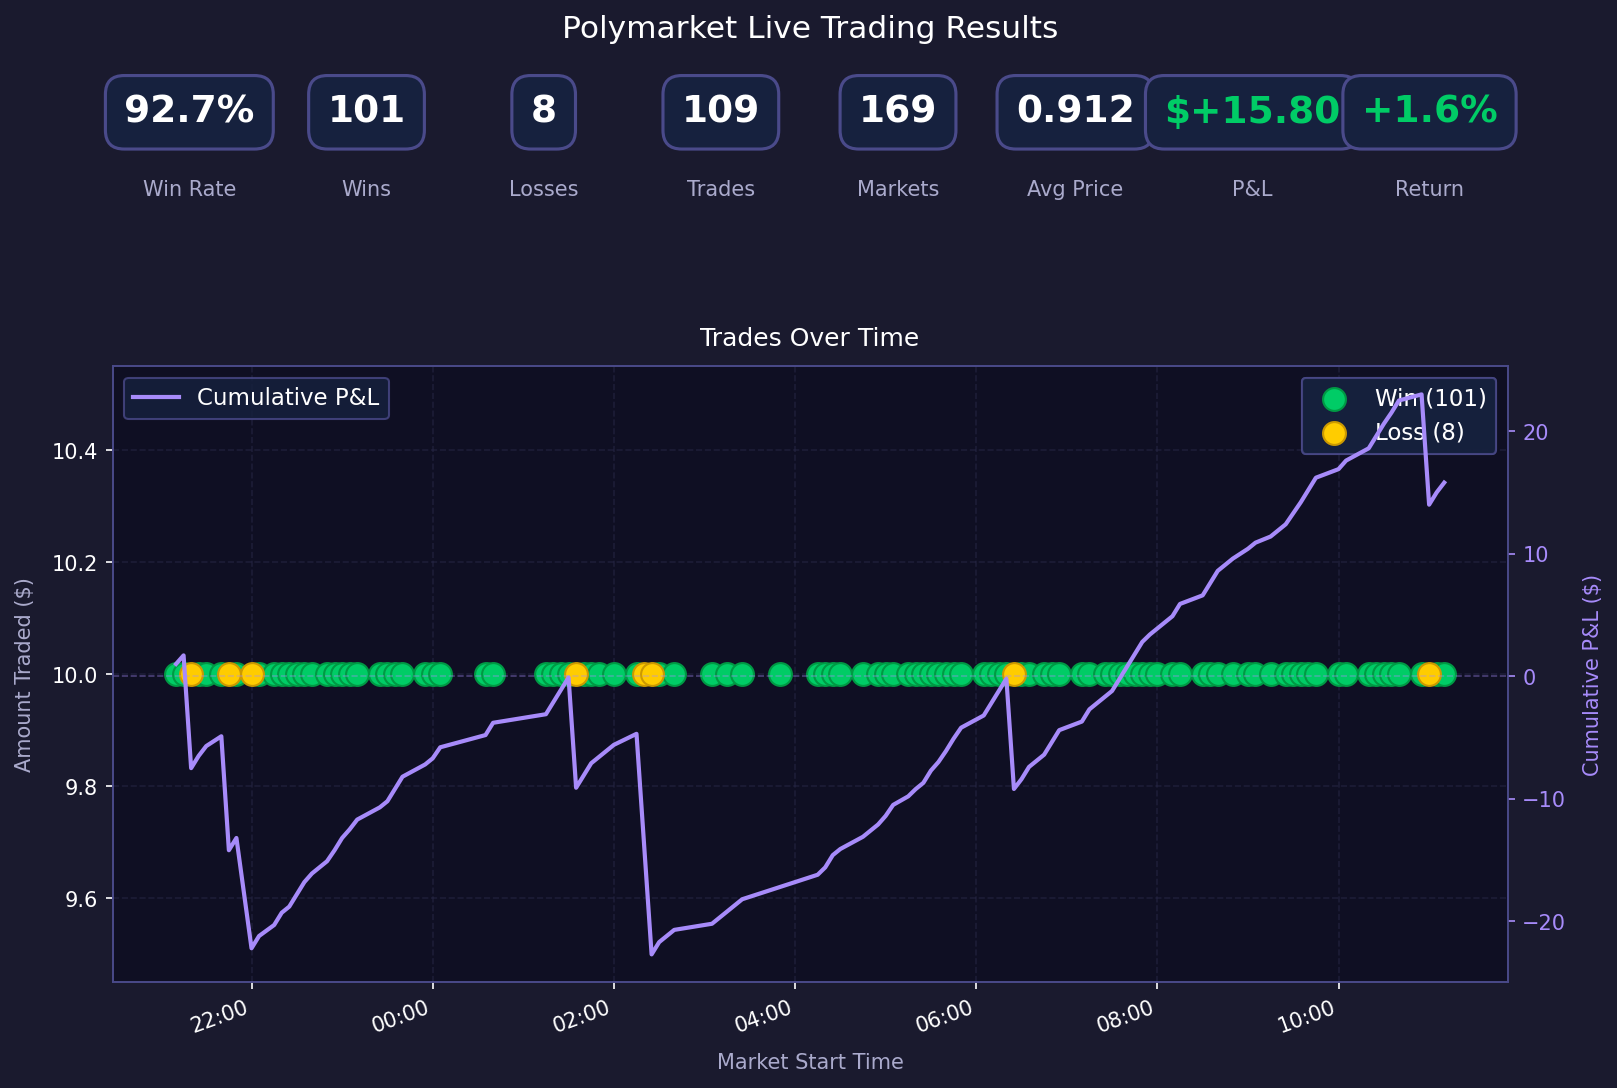
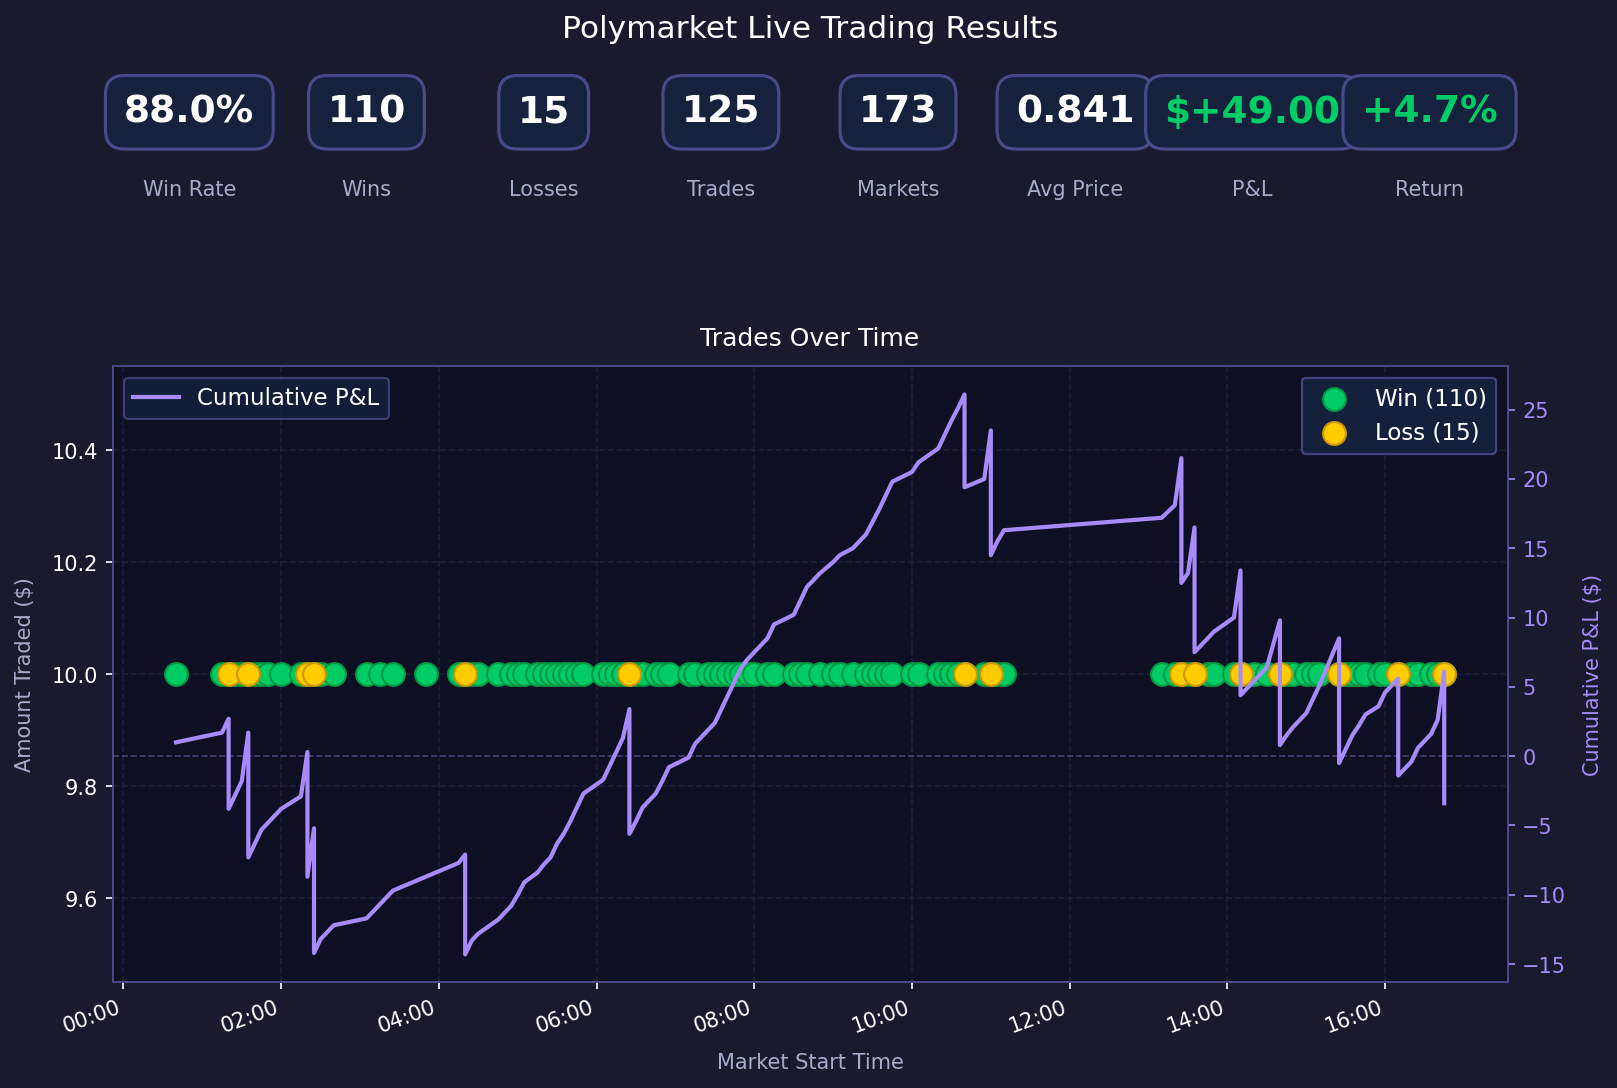
start writing strategy from params

diff --git a/live_monitor.py b/live_monitor.py
@@ -46,7 +46,7 @@ class Trade:
     price: float
 
     # datetime for logging
-    dt: float = datetime.now().timestamp()
+    dt: float
 
     def display_str(self) -> str:
         return f"{self.side} ${self.amount} of {self.outcome.name} at ${self.price}"
@@ -122,6 +122,7 @@ def run_sam_strategy(state: LiveMarketState) -> Strategy.Result:
                     side=Trade.Side.BUY,
                     amount=amount,
                     price=state.price.up,
+                    dt=datetime.now().timestamp(),
                 )
             elif in_buy_threshold(state.price.down):
                 trade = Trade(
@@ -130,6 +131,7 @@ def run_sam_strategy(state: LiveMarketState) -> Strategy.Result:
                     side=Trade.Side.BUY,
                     amount=amount,
                     price=state.price.down,
+                    dt=datetime.now().timestamp(),
                 )
 
     return Strategy.Result(trade, {"window": window})
@@ -163,6 +165,7 @@ def run_sam_strategy_with_stop_loss(state: LiveMarketState) -> Strategy.Result:
                     side=Trade.Side.BUY,
                     amount=amount,
                     price=state.price.up,
+                    dt=datetime.now().timestamp(),
                 )
             elif in_buy_threshold(state.price.down):
                 trade = Trade(
@@ -171,6 +174,7 @@ def run_sam_strategy_with_stop_loss(state: LiveMarketState) -> Strategy.Result:
                     side=Trade.Side.BUY,
                     amount=amount,
                     price=state.price.down,
+                    dt=datetime.now().timestamp(),
                 )
     elif len(state.trades) == 1:
         # protect downside losses by selling
@@ -182,6 +186,7 @@ def run_sam_strategy_with_stop_loss(state: LiveMarketState) -> Strategy.Result:
                 side=Trade.Side.SELL,
                 amount=amount,
                 price=state.price.up,
+                dt=datetime.now().timestamp(),
             )
         elif buy_trade.outcome == Trade.Outcome.DOWN and state.price.down <= 0.35:
             trade = Trade(
@@ -190,6 +195,7 @@ def run_sam_strategy_with_stop_loss(state: LiveMarketState) -> Strategy.Result:
                 side=Trade.Side.SELL,
                 amount=amount,
                 price=state.price.down,
+                dt=datetime.now().timestamp(),
             )
 
     return Strategy.Result(trade, {"window": window})
@@ -223,6 +229,7 @@ def run_sam_strategy_higher_buy_threshold(state: LiveMarketState) -> Strategy.Re
                     side=Trade.Side.BUY,
                     amount=amount,
                     price=state.price.up,
+                    dt=datetime.now().timestamp(),
                 )
             elif in_buy_threshold(state.price.down):
                 trade = Trade(
@@ -231,6 +238,7 @@ def run_sam_strategy_higher_buy_threshold(state: LiveMarketState) -> Strategy.Re
                     side=Trade.Side.BUY,
                     amount=amount,
                     price=state.price.down,
+                    dt=datetime.now().timestamp(),
                 )
 
     return Strategy.Result(trade, {"window": window})
@@ -307,6 +315,9 @@ if __name__ == "__main__":
     DEFAULT_LOGFILE = "livetest.jsonl"
     DEFAULT_STRATEGY = Strategy(run=run_sam_strategy)
 
+    if len(argv) == 4:
+        # include paramfile name when loading the strategy...
+        ...
     if len(argv) == 3:
         LOG_FILE = Path(argv[1])
         try:

diff --git a/strategies.py b/strategies.py
@@ -1,0 +1,86 @@
+from datetime import datetime
+from json import loads
+from typing import Callable
+
+from live_monitor import LiveMarketState, Strategy, Trade
+from log_config import getLogger
+
+logger = getLogger(__name__)
+
+
+def strategy_from_params(
+    window_start: int,
+    window_end: int,
+    min_buy_price: float,
+    max_buy_price: float,
+    stop_loss_price: float,
+) -> Callable[[LiveMarketState], Strategy.Result]:
+
+    def _strategy(state: LiveMarketState) -> Strategy.Result:
+
+        def get_window():
+            if state.elapsed_seconds < window_start:
+                return "before"
+            elif state.elapsed_seconds >= window_start and state.elapsed_seconds < window_end:
+                return "can_trigger"
+            else:
+                return "after"
+
+        def in_buy_threshold(price: float, min=min_buy_price, max=max_buy_price) -> bool:
+            return price >= min and price <= max
+
+        trade = None
+        window = get_window()
+        amount = 10
+        if len(state.trades) == 0:
+            if window == "can_trigger":
+                if in_buy_threshold(state.price.up):
+                    trade = Trade(
+                        outcome=Trade.Outcome.UP,
+                        clob=state.clobs.up,
+                        side=Trade.Side.BUY,
+                        amount=amount,
+                        price=state.price.up,
+                        dt=datetime.now().timestamp(),
+                    )
+                elif in_buy_threshold(state.price.down):
+                    trade = Trade(
+                        outcome=Trade.Outcome.DOWN,
+                        clob=state.clobs.down,
+                        side=Trade.Side.BUY,
+                        amount=amount,
+                        price=state.price.down,
+                        dt=datetime.now().timestamp(),
+                    )
+        elif len(state.trades) == 1:
+            # protect downside losses by selling
+            buy_trade = state.trades[0]
+            if buy_trade.outcome == Trade.Outcome.UP and state.price.up <= stop_loss_price:
+                trade = Trade(
+                    outcome=Trade.Outcome.UP,
+                    clob=state.clobs.up,
+                    side=Trade.Side.SELL,
+                    amount=buy_trade.amount,
+                    price=state.price.up,
+                    dt=datetime.now().timestamp(),
+                )
+            elif buy_trade.outcome == Trade.Outcome.DOWN and state.price.down <= stop_loss_price:
+                trade = Trade(
+                    outcome=Trade.Outcome.DOWN,
+                    clob=state.clobs.down,
+                    side=Trade.Side.SELL,
+                    amount=buy_trade.amount,
+                    price=state.price.down,
+                    dt=datetime.now().timestamp(),
+                )
+
+        return Strategy.Result(trade, {"window": window})
+
+    return lambda state: _strategy(state)
+
+
+def load_strategy_from_param_file(filename: str) -> Strategy:
+    with open(filename, "r") as file:
+        params = loads(file.read())
+        logger.debug(f"Loading strategy from params: {params}")
+        return Strategy(run=strategy_from_params(**params))

diff --git a/plot_livetest.py b/plot_livetest.py
@@ -5,7 +5,7 @@ import matplotlib.dates as mdates
 import matplotlib.gridspec as gridspec
 import matplotlib.pyplot as plt
 
-JSONL_FILE = "later_window_strat.jsonl"
+JSONL_FILE = "stoploss_strat_35.jsonl"
 
 records = []
 with open(JSONL_FILE) as f:
